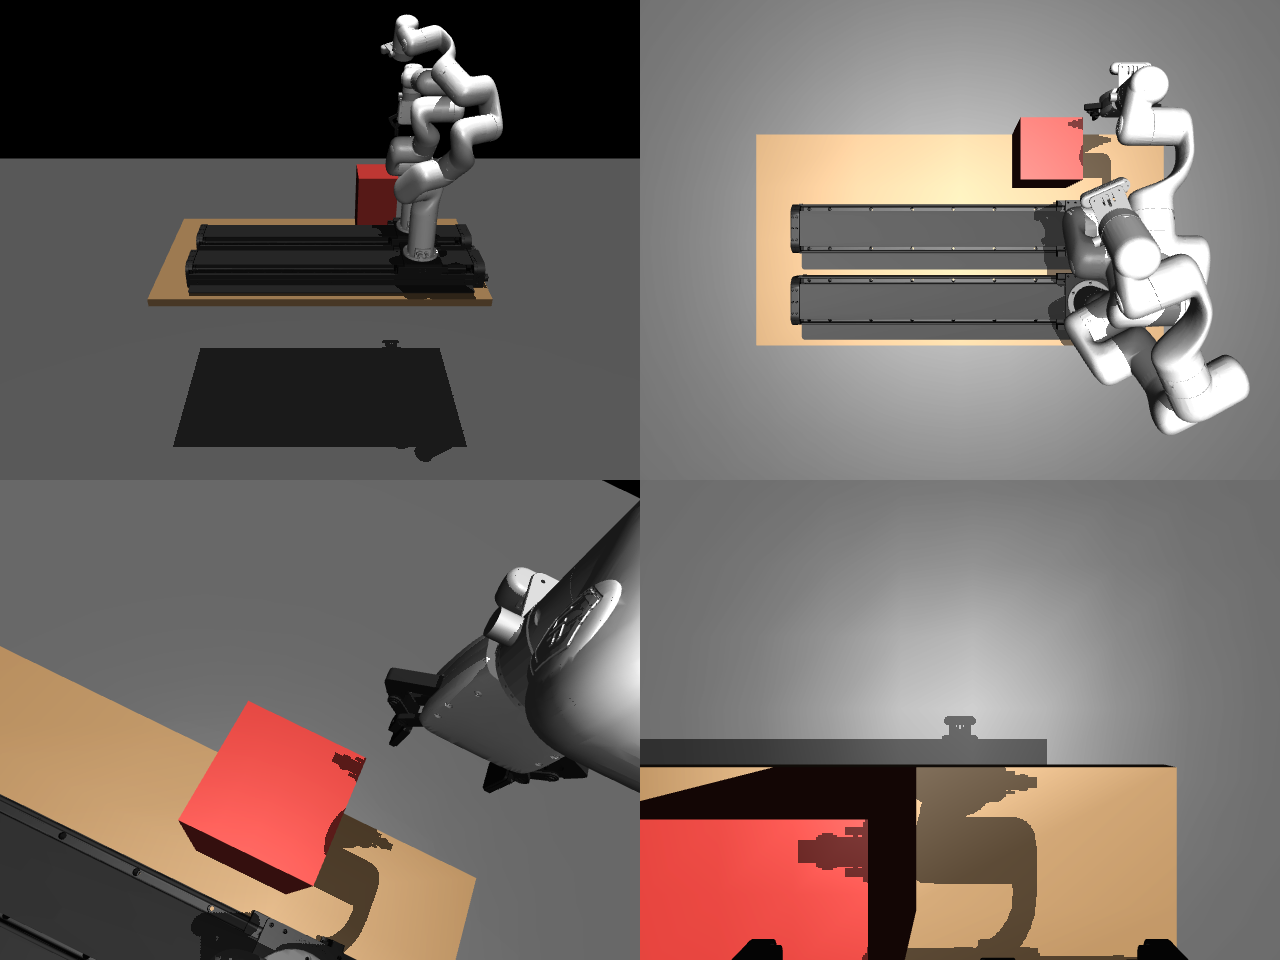
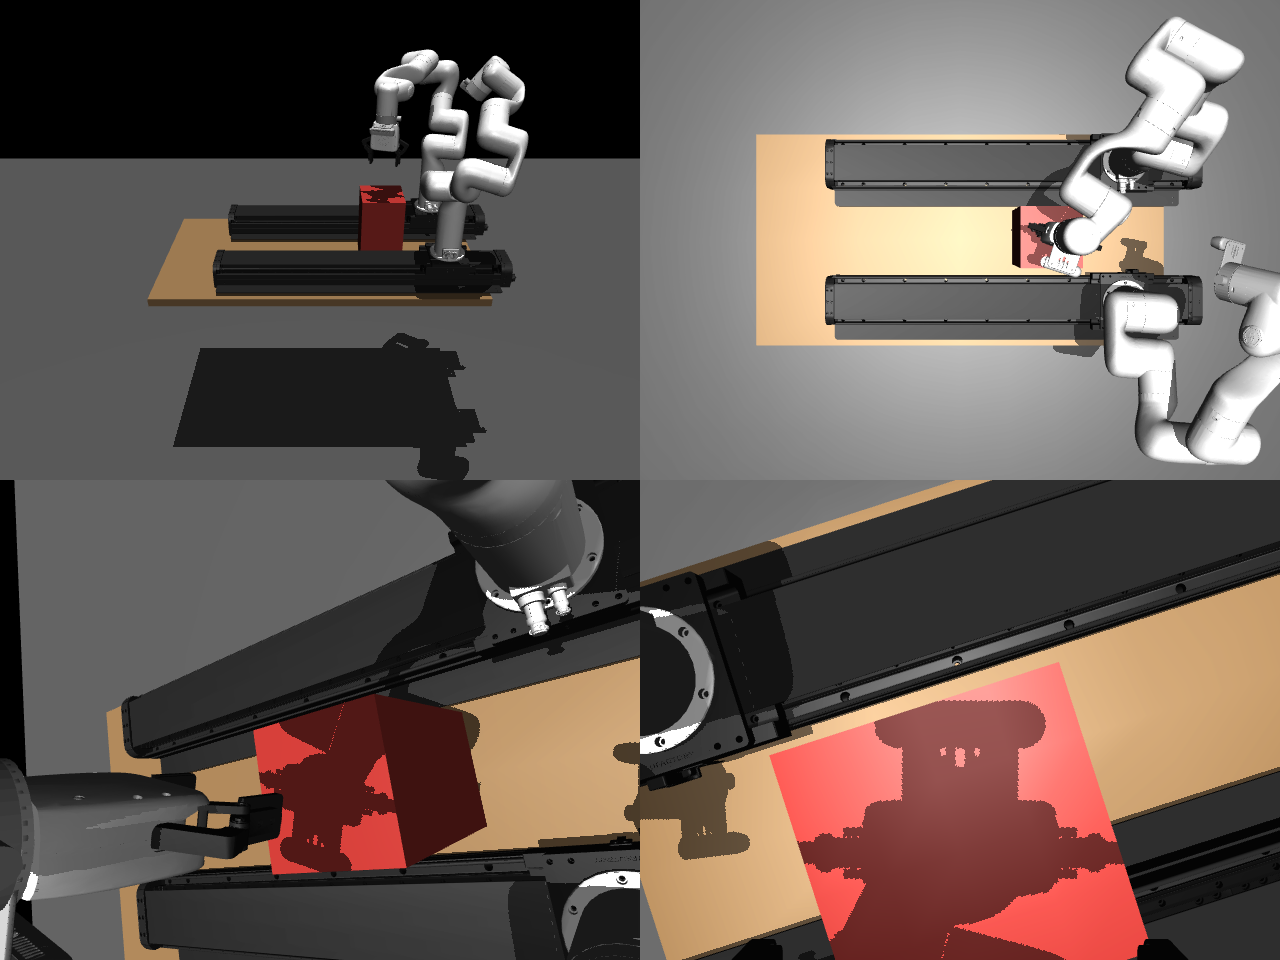
docs: mavis_v2 corrected layout (rails at both edges, obstacle in the channel); operator-view renders

diff --git a/docs/design/03-sim.md b/docs/design/03-sim.md
@@ -198,25 +198,31 @@ the debug inflation of 0.025 m. The scene author therefore declares them:
 
 **`mavis_v2`** (Apollo lab, tape-measured 2026-09-02; the YAML header carries
 the same numbers — edit there). World frame: z-up, origin on the floor under
-the table centre; +X along the long edge toward the *right* end, +Y across the
-table toward the *back*; the operator / camera-arm side is −Y.
+the table centre; the operator stands at the *front* (−Y) where the camera arm's
+rail is, +Y is toward the *back* (gripper arm's rail), +X is toward the *right*
+end. The two rails hug the two long edges; the workspace with the obstacle is
+the channel between them.
 
 | element | measurement | descriptor value |
 |---|---|---|
 | table | 1.215 × 0.63 × 0.03 m, top at 0.735 m | box half `[0.6075, 0.315, 0.015]` at z 0.72 |
-| rails | parallel to the long edge, feet on the table; zero at the right end, travel toward −X | `base_quat` yaw +90° `[0.7071, 0, 0, 0.7071]`; z = 0.735 + 0.107188 |
+| rails | two identical rails parallel to the long edge, feet on the table, mounted the same way; zero at the right end, travel toward −X | `base_quat` yaw +90° `[0.7071, 0, 0, 0.7071]`; z = 0.735 + 0.107188 |
 | front rail (`view`, camera-only) | outer edge 2 cm from the front edge | y0 = −0.315 + 0.02 + 0.120 = **−0.175** |
-| back rail (`grip`, gripper + wrist cam) | outer edge 42 cm from the front edge | y0 = −0.315 + 0.42 − 0.0724 = **0.0326** |
-| rail zero | arms 14.5 cm from the right edge at q = 0 | x0 = 0.6075 − 0.145 − 0.098 = **0.3645** (14.5 cm read to the carriage edge; base edge → 0.3995, base centre → 0.4625) |
-| obstacle | 0.16 × 0.16 × 0.26 m box, flush with the back edge, +X face 29.2 cm from the right edge | half `[0.08, 0.08, 0.13]` at `(0.2355, 0.235, 0.865)` |
-| keyframe | both rails at zero; gripper TCP 11 cm above the box, tool down; camera arm swung 0.5 rad, D435 1.5 m up looking at the back strip | audit-clean at δ = 0.008 and 0.025 |
-| `allowed_pairs` | carriages ↔ table (24 mm), carriages ↔ neighbouring rail (~2 mm) | four pairs |
+| back rail (`grip`, gripper + wrist cam) | 39.5 cm behind the front rail (base lines) | y0 = −0.175 + 0.395 = **0.220**; far edge 2.3 cm from the back edge |
+| channel | between the rail bodies | y ∈ [−0.1026, 0.100] (20.3 cm with the 19.2 cm mavis mesh; the front carriage protrudes 1.8 cm into it) |
+| rail zero | arm bases 14.5 cm from the right edge at q = 0 (literal: base centre) | x0 = 0.6075 − 0.145 = **0.4625** (base edge → 0.3995, carriage edge → 0.3645); the mavis mesh's zero end then overhangs the table end by 10 cm — unverified |
+| obstacle | 0.16 × 0.16 × 0.26 m box in the channel, left of the arms; +X face 29.2 cm from the right edge | half `[0.08, 0.08, 0.13]` at `(0.2355, 0.0075, 0.865)` (centred in the channel's free width) |
+| keyframe | both rails at zero; gripper arm turned round (j1 ≈ π) with the TCP 11 cm above the box top, tool down; camera 1.4 m up looking at the box | audit-clean at δ = 0.008 and 0.025 |
+| `allowed_pairs` | carriages ↔ table (24 mm by construction) | two pairs |
 
 Rail mesh facts used (mavis asset, unverified vs hardware — phase-09 item):
 across-axis extent `[−0.120, +0.0724]` m about the base line (the −0.120 side is
-a 3 mm cable-tray plate), carriage `[−0.098, +0.088]` m along the travel axis,
-1.0926 m long. The 2 cm / 42 cm / 39.5 cm readings disagree by 5 mm and the
-14.5 cm reference is ambiguous — both resolve in the phase-09 twin calibration.
+a 3 mm cable-tray plate; main body 14.2 cm), carriage `[−0.080, +0.090]` across /
+`[−0.098, +0.088]` along, 1.0926 m long with 0.2476 m beyond the carriage at
+q = 0. Open items for the phase-09 calibration: the 14.5 cm reference (base
+centre / base edge / carriage edge), the real rail width (a narrower rail widens
+the channel), whether the box touches a rail ("紧卡"), which end carries the
+motor housing, and the 2 / 42 / 39.5 cm readings (5 mm apart).
 
 ## 5. Scene composition via `mujoco.MjSpec`
 

diff --git a/docs/prompts/phase-09-todo.md b/docs/prompts/phase-09-todo.md
@@ -31,10 +31,12 @@
 - [ ] 物理测量项：6 个示教位姿的卷尺实测 clearance（对 twin ≤4 mm）、
       各臂 `base_in_world` 与 rail 原点实测、相机外参标定（标定板）。
 - [ ] **mavis_v2 场景校准**（`apollo-xarm7-sim/.../scenes/mavis_v2.yaml` 头部有全部
-      假设）：① 轨道零位（SDK 0 mm）确在台面**右端**、行程朝左；② "14.5 cm 到右沿"
-      量的是滑块边（当前取值 x0=0.3645）还是基座边/基座中心（0.3995/0.4625）；
-      ③ 两轨外沿 2 cm / 42 cm 与"轨间 39.5 cm"差 5 mm，以实测为准；④ 实物轨道
-      宽度（mavis 网格 19.2 cm 含 3 mm 线槽板）与右端是否与台面齐平；⑤ 障碍物
+      假设）：① 轨道零位（SDK 0 mm）确在台面**右端**、行程朝左，电机盒在哪一端；
+      ② "14.5 cm 到右沿"量的是基座中心（当前 x0=0.4625）还是基座边/滑块边
+      （0.3995/0.3645）——按网格，轨道右端会伸出台面 10 cm，若实物齐平说明是后者；
+      ③ 两轨间距 39.5 cm 与"gripper 轨到前沿 42 cm"差 5 mm，以实测为准；④ 实物
+      轨道宽度（mavis 网格 19.2 cm 含 3 mm 线槽板，本体 14.2）决定两轨间通道宽度
+      （当前 20.3 cm，箱子两侧仅余约 1.3 cm）；⑤ 箱子是否紧贴某条轨道（"紧卡"）、
       底边 16 cm（口述曾说 13）；⑥ 臂法兰安装面高出台面 0.107188 m 是否属实。
 - [ ] watchdog/急停课目（拔 WS、手拍碰撞、物理急停）需要你现场触发。
 - [ ] 验收表逐项签核。

diff --git a/CLAUDE.md b/CLAUDE.md
@@ -37,8 +37,9 @@ clones (gitignored by the ws repo until converted to submodules).
 - Arms may or may not have a linear track (rail); max rail travel 0.65 m.
   Presence must be auto-detected via the xArm SDK.
 - Lab cell geometry (tape-measured 2026-09-02): 1.215 × 0.63 × 0.03 m table, top
-  0.735 m above the floor; two parallel rails (camera-only arm in front, gripper +
-  wrist-cam arm behind); 0.16 × 0.16 × 0.26 m obstacle at the back edge. Encoded in
+  0.735 m above the floor; two parallel rails 39.5 cm apart hugging the long edges
+  (camera-only arm in front, gripper + wrist-cam arm behind); 0.16 × 0.16 × 0.26 m
+  obstacle in the channel between them, left of the arms' rail zero. Encoded in
   apollo-xarm7-sim `scenes/mavis_v2.yaml` (header lists every measurement and the
   assumptions to confirm in phase-09); docs/design/03-sim.md §4.3 has the arithmetic.
 - Machine: Ubuntu 22.04, 2× RTX 4090, node 22, nmcli available. Python: core/sim/
